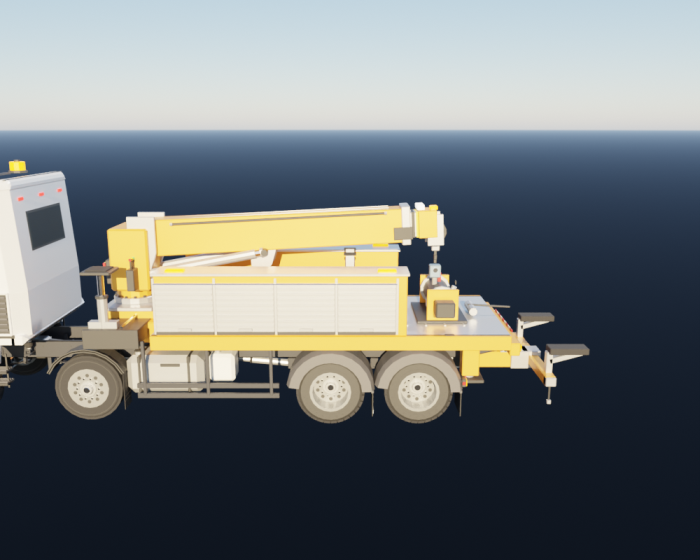
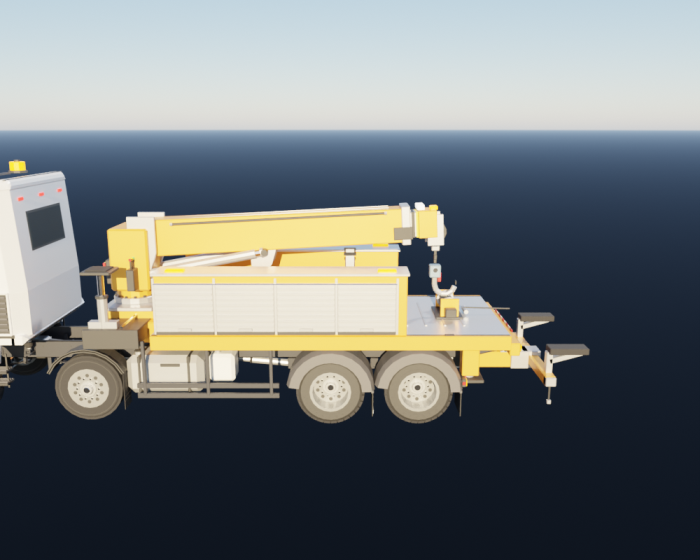
Blender: odtahovky - mensi navijak (plosinova aj zadny na tazkej)
Claude-Session: https://claude.ai/code/session_01LJyXRKJzkeHGHPvKuFtRQJ

Changed region(s): [[0.57, 0.4857, 0.72, 0.6071]]

diff --git a/Blender/odtahovky_low_poly.py b/Blender/odtahovky_low_poly.py
@@ -3048,38 +3048,38 @@ def build_pl_rack(style):
 
 
 def build_pl_winch(style):
-    # navijak (pevna cast): ram, hydromotor, prevodovka, lanova vodiaca kladka; pivot na podlahe v strede, dozadu je -X; buben je zvlast
+    # navijak (pevna cast, maly): ram, hydromotor, drziak haku, lanova vodiaca kladka; pivot na podlahe v strede, dozadu je -X; buben je zvlast
     eu = style == "eu"
     bm = bmesh.new()
-    add_box(bm, (0.64, 1.46, 0.05), (0.0, 0.0, 0.025), FRAME, bev=0.008)
+    add_box(bm, (0.36, 0.80, 0.04), (0.0, 0.0, 0.02), FRAME, bev=0.006)
     for s in SIDES_LR:
-        add_box(bm, (0.46, 0.06, 0.52), (0.0, s * 0.63, 0.31), ACCENT, bev=0.01)
-        add_cylinder(bm, 0.07, 0.10, along_y((0.0, s * 0.68, 0.36)), STEEL, segments=10)
-    add_box(bm, (0.30, 0.24, 0.24), (0.04, 0.80, 0.28), DARK if eu else CHROME, bev=0.02)
-    add_cylinder(bm, 0.10, 0.30, along_y((0.0, 0.82, 0.40)), DARK, segments=10, bev=0.01)
-    add_box(bm, (0.12, 1.30, 0.04), (-0.12, 0.0, 0.12), STEEL, bev=0.004)
+        add_box(bm, (0.26, 0.04, 0.30), (0.0, s * 0.34, 0.19), ACCENT, bev=0.008)
+        add_cylinder(bm, 0.045, 0.06, along_y((0.0, s * 0.375, 0.22)), STEEL, segments=8)
+    add_box(bm, (0.18, 0.14, 0.14), (0.02, 0.45, 0.16), DARK if eu else CHROME, bev=0.012)
+    add_cylinder(bm, 0.06, 0.18, along_y((0.0, 0.47, 0.24)), DARK, segments=8, bev=0.006)
+    add_box(bm, (0.08, 0.70, 0.03), (-0.08, 0.0, 0.07), STEEL, bev=0.003)
     # drziak haku: stlpik s doskou pri vodiacej kladke vlavo
-    add_box(bm, (0.06, 0.06, 0.56), (-0.42, -0.30, 0.31), STEEL, bev=0.005)
-    add_box(bm, (0.16, 0.14, 0.04), (-0.42, -0.30, 0.60), STEEL, bev=0.005)
-    add_cylinder(bm, 0.02, 0.10, along_x((-0.42, -0.30, 0.64)), CHROME, segments=8)
+    add_box(bm, (0.05, 0.05, 0.40), (-0.26, -0.20, 0.22), STEEL, bev=0.004)
+    add_box(bm, (0.14, 0.12, 0.03), (-0.26, -0.20, 0.43), STEEL, bev=0.004)
+    add_cylinder(bm, 0.015, 0.08, along_x((-0.26, -0.20, 0.46)), CHROME, segments=8)
     # lanova vodiaca kladka (vzadu pri podlahe) a vodiace puzdra
-    add_cylinder(bm, 0.07, 0.46, along_y((-0.50, 0.0, 0.12)), STEEL, segments=10, bev=0.006)
+    add_cylinder(bm, 0.045, 0.28, along_y((-0.28, 0.0, 0.08)), STEEL, segments=8, bev=0.004)
     for s in SIDES_LR:
-        add_box(bm, (0.12, 0.05, 0.16), (-0.50, s * 0.25, 0.10), DARK, bev=0.005)
-        add_box(bm, (0.04, 0.04, 0.12), (-0.50, s * 0.30, 0.18), STEEL, bev=0.004)
+        add_box(bm, (0.08, 0.04, 0.10), (-0.28, s * 0.16, 0.07), DARK, bev=0.004)
+        add_box(bm, (0.03, 0.03, 0.08), (-0.28, s * 0.19, 0.12), STEEL, bev=0.003)
     return finish_mesh(bm, "SM_Odt_od_navijak_" + style)
 
 
 def build_pl_drum():
     # buben navijaka (otaca sa okolo Y): lano navinute, dve cela
     bm = bmesh.new()
-    add_cylinder(bm, 0.17, 1.10, along_y((0.0, 0.0, 0.0)), STEEL, segments=14, bev=0.006)
-    add_cylinder(bm, 0.20, 0.88, along_y((0.0, 0.0, 0.0)), DARK, segments=14)
+    add_cylinder(bm, 0.10, 0.50, along_y((0.0, 0.0, 0.0)), STEEL, segments=12, bev=0.004)
+    add_cylinder(bm, 0.12, 0.40, along_y((0.0, 0.0, 0.0)), DARK, segments=12)
     for s in SIDES_LR:
-        add_cylinder(bm, 0.27, 0.05, along_y((0.0, s * 0.56, 0.0)), STEEL, segments=14, bev=0.006)
+        add_cylinder(bm, 0.16, 0.03, along_y((0.0, s * 0.26, 0.0)), STEEL, segments=12, bev=0.004)
     for k in range(6):
         a = 2.0 * math.pi * k / 6.0
-        add_box(bm, (0.03, 0.88, 0.012), (0.205 * math.cos(a), 0.0, 0.205 * math.sin(a)), GALV, rotation=(0.0, -math.degrees(a), 0.0))
+        add_box(bm, (0.02, 0.40, 0.008), (0.122 * math.cos(a), 0.0, 0.122 * math.sin(a)), GALV, rotation=(0.0, -math.degrees(a), 0.0))
     return finish_mesh(bm, "SM_Odt_od_navijak_buben")
 
 
@@ -3317,19 +3317,19 @@ def pl_rig(coll, truck, parts, body, root, prop, mats):
     xf, zt = g["xf"], g["zt"]
     accent(rails, truck, mats)
     accent(new_object(coll, name + "_celna_stena", parts["Odt_od_celna_stena_" + style], (xf, 0.0, zt), bed), truck, mats)
-    winch = accent(new_object(coll, name + "_navijak", parts["Odt_od_navijak_" + style], (xf - 0.60, 0.0, zt), bed), truck, mats)
-    drum = new_object(coll, name + "_navijak_buben", parts["Odt_od_navijak_buben"], (0.0, 0.0, 0.36), winch)
-    fair = empty(coll, name + "_navijak_vodiaca", (-0.50, 0.0, 0.20), winch)
-    holder = empty(coll, name + "_hak_drziak", (xf - 1.02, -0.30, zt + 0.66), bed)
+    winch = accent(new_object(coll, name + "_navijak", parts["Odt_od_navijak_" + style], (xf - 0.40, 0.0, zt), bed), truck, mats)
+    drum = new_object(coll, name + "_navijak_buben", parts["Odt_od_navijak_buben"], (0.0, 0.0, 0.22), winch)
+    fair = empty(coll, name + "_navijak_vodiaca", (-0.28, 0.0, 0.12), winch)
+    holder = empty(coll, name + "_hak_drziak", (xf - 0.66, -0.20, zt + 0.48), bed)
     hook = new_object(coll, name + "_hak", parts["Odt_od_hak"], (0.0, 0.0, 0.0), holder)
-    hook.scale = (0.8, 0.8, 0.8)
+    hook.scale = (0.6, 0.6, 0.6)
     con = hook.constraints.new("COPY_LOCATION")
     con.name = "Na_aute"
     cable = new_object(coll, name + "_lano", parts["Odt_od_lano"], (0.0, 0.0, 0.0), fair)
     track(cable, hook, "TRACK_Z")
     driver(cable, "scale", 2, "d", [("d", "DIST", (fair, hook))])
-    d0 = Vector((xf - 1.02 - (xf - 0.60 - 0.50), -0.30, zt + 0.66 - (zt + 0.20))).length
-    driver(drum, "rotation_euler", 1, "-(d - %.4f) / 0.20" % d0, [("d", "DIST", (fair, hook))])
+    d0 = Vector((xf - 0.66 - (xf - 0.40 - 0.28), -0.20, zt + 0.48 - (zt + 0.12))).length
+    driver(drum, "rotation_euler", 1, "-(d - %.4f) / 0.12" % d0, [("d", "DIST", (fair, hook))])
     t, sc = pl_tilt_cyl(g), pl_slide_cyl(g)
     for s, side in ((1.0, "L"), (-1.0, "P")):
         telescope(coll, "%s_valec_naklapania_%s" % (name, side), parts, "pt" + cfg, t["n"], t["ell"], body,
@@ -3427,7 +3427,7 @@ def _pl_doc():
         "  Sklopny podram: prazdny objekt <Auto>_plosina_klb (pivot v osi klbu vzadu na rame, os Y, otaca sa o -Plosina_sklon x uhol, zadok ide dole). Jeho deti:",
         "    podram (diel Odt_od_podram_<podvozok>: dva nosniky s valcekmi, priecniky, cap), plosina (Odt_od_plosina_<styl>_<podvozok>, pohyb v X o -Plosina_odsun x odsun),",
         "    valce odsunu (zaklad na podrame vpredu). Plosina ma na zadnom konci skosenie (%.2f m) a spicka sa po odsune dotkne zeme." % PL_WEDGE,
-        "  Dieta plosiny: celna stena (pivot na prednej hrane na podlahe), navijak (pivot na podlahe v strede, 0.60 m za prednou hranou), jeho buben (otaca sa podla vzdialenosti haku),",
+        "  Dieta plosiny: celna stena (pivot na prednej hrane na podlahe), navijak (maly, pivot na podlahe v strede, 0.40 m za prednou hranou), jeho buben (otaca sa podla vzdialenosti haku),",
         "    prazdny objekt navijak_vodiaca (vystup lana, zaklad lana) a hak_drziak (miesto haku v pokoji).",
         "  Lano (Odt_od_lano, jednotkova dlzka v +Z): zaklad na vodiacej kladke, mieri (track Z) na hak, mierka Z = vzdialenost vodiacej kladky a haku.",
         "  Hak (Odt_od_hak) je dieta hak_drziak; constraint Copy Location 'Na_aute' (cielom je prazdny objekt auto_oko = tazne oko auta) ma vplyv = vlastnost Hak_k_autu (0 = v drziaku, 1 = na aute).",
@@ -3848,20 +3848,21 @@ def build_tz_rear(cfg, style):
 
 
 def build_tz_rear_winch(cfg, style):
-    # zadny navijak (nepohyblivy): ram, buben s lanom, hydromotor, vodiaca kladka, stlpiky; v suradniciach ramu
+    # zadny navijak (maly, nepohyblivy): ram, buben s lanom, hydromotor, vodiaca kladka; v suradniciach ramu
     xr = tz_rear(cfg)
     bm = bmesh.new()
-    xw = xr + 0.95
-    add_box(bm, (0.80, 1.20, 0.05), (xw, 0.0, TZ_DECK_Z + 0.025), FRAME, bev=0.008)
+    xw = xr + 0.80
+    zc = TZ_DECK_Z + 0.20
+    add_box(bm, (0.44, 0.70, 0.04), (xw, 0.0, TZ_DECK_Z + 0.02), FRAME, bev=0.006)
     for s in SIDES_LR:
-        add_box(bm, (0.50, 0.06, 0.50), (xw, s * 0.55, TZ_DECK_Z + 0.30), ACCENT, bev=0.01)
-    add_cylinder(bm, 0.18, 1.00, along_y((xw, 0.0, TZ_DECK_Z + 0.32)), STEEL, segments=14, bev=0.006)
-    add_cylinder(bm, 0.21, 0.80, along_y((xw, 0.0, TZ_DECK_Z + 0.32)), DARK, segments=14)
+        add_box(bm, (0.30, 0.04, 0.30), (xw, s * 0.31, TZ_DECK_Z + 0.19), ACCENT, bev=0.008)
+    add_cylinder(bm, 0.09, 0.56, along_y((xw, 0.0, zc)), STEEL, segments=12, bev=0.004)
+    add_cylinder(bm, 0.11, 0.44, along_y((xw, 0.0, zc)), DARK, segments=12)
     for s in SIDES_LR:
-        add_cylinder(bm, 0.26, 0.05, along_y((xw, s * 0.45, TZ_DECK_Z + 0.32)), STEEL, segments=14, bev=0.006)
-    add_box(bm, (0.30, 0.24, 0.24), (xw, 0.80, TZ_DECK_Z + 0.30), DARK, bev=0.02)
-    add_cylinder(bm, 0.07, 0.50, along_y((xw - 0.55, 0.0, TZ_DECK_Z + 0.10)), STEEL, segments=10, bev=0.006)
-    add_rod(bm, (xw - 0.50, 0.0, TZ_DECK_Z + 0.16), (xr - 0.25, 0.0, TZ_DECK_Z + 0.12), 0.016, DARK, segments=6)
+        add_cylinder(bm, 0.15, 0.03, along_y((xw, s * 0.24, zc)), STEEL, segments=12, bev=0.004)
+    add_box(bm, (0.18, 0.14, 0.14), (xw, 0.44, TZ_DECK_Z + 0.14), DARK, bev=0.012)
+    add_cylinder(bm, 0.04, 0.30, along_y((xw - 0.30, 0.0, TZ_DECK_Z + 0.07)), STEEL, segments=8, bev=0.004)
+    add_rod(bm, (xw - 0.28, 0.0, TZ_DECK_Z + 0.11), (xr - 0.25, 0.0, TZ_DECK_Z + 0.09), 0.012, DARK, segments=6)
     return finish_mesh(bm, "SM_Odt_tz_navijak_zadny_" + cfg["cfg"])
 
 
